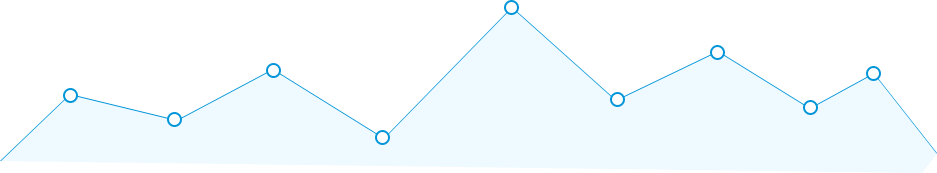
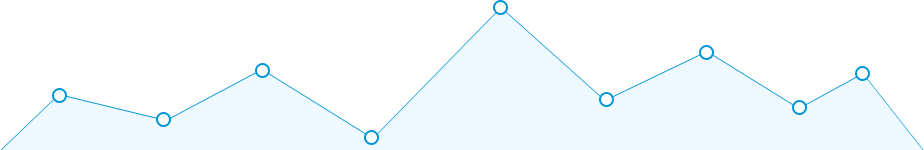
Base styles

diff --git a/app/index.html b/app/index.html
@@ -18,83 +18,95 @@
       <p class="browserupgrade">You are using an <strong>outdated</strong> browser. Please <a href="http://browsehappy.com/">upgrade your browser</a> to improve your experience.</p>
       <![endif]-->
 
-  <div class="container">
-    <div class="row">
-      <div class="nine columns"><img class="logo" src="images/logo.png" alt="Trimpass"></div>
-      <div class="three columns"><a href="#" class="button button-primary">Log In</a></div>
-    </div>
-  </div>
-
-  <div class="container tac">
-    <div class="row">
-      <div class="twelve columns"><h1>Fitness Freedom</h1></div>
-    </div>
-    <div class="row">
-      <div class="twelve columns"><strong>Unlimited access to fitness classes and gyms throughout your city for one low price.</strong></div>
-    </div>
-    <div class="row">
-      <div class="twelve columns"><div class="header-details">$69/month when you sign up annally. Regularly $89/month</div></div>
-    </div>
-    <div class="row">
-      <div class="twelve columns"><a href="#" class="button button-primary">Get Started Today</a></div>
-    </div>
-  </div>
-
-  <div class="container section">
-    <div class="row">
-      <div class="five columns">
-        <div class="section-text">
-          <h2>One Pass, Unlimited Access</h2>
-          <p>TrimPass's one pass is your personal ticket to the best fitness classes in your city. You can reserve classes via our website or app for only one low price a month.</p>
-        </div>
-      </div>
-      <div class="seven columns"><div class="img-unlimited"><img src="images/unlimited.png" alt="" height="469"></div></div>
-    </div>
-  </div>
-
-  <div class="container section img-graph">
-    <div class="row">
-      <div class="seven columns"><div class="img-schedule"><img src="images/schedule.png" alt=""></div></div>
-      <div class="five columns">
-        <div class="section-text">
-          <h2>Top classes in your city</h2>
-          <p>TrimPass's one pass is your personal ticket to the best fitness classes in your city. You can reserve classes via our website or app for only one low price a month.</p>
-        </div>
+  <div class="section-nav">
+    <div class="container">
+      <div class="row">
+        <div class="nine columns"><img class="logo" src="images/logo.png" alt="Trimpass"></div>
+        <div class="three columns"><a href="#" class="button button-primary">Log In</a></div>
       </div>
     </div>
   </div>
 
-  <div class="container section">
-    <div class="row">
-      <div class="five columns">
-        <div class="section-text">
-          <h2>No Commitment?<br> Cancel anytime</h2>
-          <p>TrimPass's one pass is your personal ticket to the best fitness classes in your city. You can reserve classes via our website or app for only one low price a month.</p>
+  <div class="section-header">
+    <div class="container tac">
+      <div class="row">
+        <div class="twelve columns"><h1>Fitness Freedom</h1></div>
+      </div>
+      <div class="row">
+        <div class="twelve columns"><strong>Unlimited access to fitness classes and gyms throughout your city for one low price.</strong></div>
+      </div>
+      <div class="row">
+        <div class="twelve columns"><div class="header-details">$69/month when you sign up annally. Regularly $89/month</div></div>
+      </div>
+      <div class="row">
+        <div class="twelve columns"><a href="#" class="button button-primary">Get Started Today</a></div>
+      </div>
+    </div>
+  </div>
+
+  <div class="section section-unlimited">
+    <div class="container">
+      <div class="row">
+        <div class="five columns">
+          <div class="section-text">
+            <h2>One Pass, Unlimited Access</h2>
+            <p>TrimPass's one pass is your personal ticket to the best fitness classes in your city. You can reserve classes via our website or app for only one low price a month.</p>
+          </div>
+        </div>
+        <div class="seven columns"><div class="img-unlimited"><img src="images/unlimited.png" alt="" height="469"></div></div>
+      </div>
+    </div>
+  </div>
+
+  <div class="section section-schedule">
+    <div class="container img-graph">
+      <div class="row">
+        <div class="seven columns"><div class="img-schedule"><img src="images/schedule.png" alt=""></div></div>
+        <div class="five columns">
+          <div class="section-text">
+            <h2>Top classes in your city</h2>
+            <p>TrimPass's one pass is your personal ticket to the best fitness classes in your city. You can reserve classes via our website or app for only one low price a month.</p>
+          </div>
         </div>
       </div>
-      <div class="seven columns"><div class="img-nocommit"><img src="images/nocommit.png" alt=""></div></div>
     </div>
   </div>
 
-  <div class="container">
-    <div class="row">
-      <div class="twelve columns"><h2>Fitness Classes and Gyms Near You</h2></div>
-    </div>
-    <div class="row">
-      <div class="twelve columns">MAP HERE</div>
-    </div>
-  </div>
-
-  <div class="container">
-    <div class="row">
-      <div class="twelve columns"></div>
-    </div>
-    <div class="row">
-      <div class="twelve columns">&copy; Copyright 2015 Trimpass. All rights reserved</div>
+  <div class="section section-commitment">
+    <div class="container">
+      <div class="row">
+        <div class="five columns">
+          <div class="section-text">
+            <h2>No Commitment?<br> Cancel anytime</h2>
+            <p>TrimPass's one pass is your personal ticket to the best fitness classes in your city. You can reserve classes via our website or app for only one low price a month.</p>
+          </div>
+        </div>
+        <div class="seven columns"><div class="img-nocommit"><img src="images/nocommit.png" alt=""></div></div>
+      </div>
     </div>
   </div>
 
+  <div class="section-map">
+    <div class="container">
+      <div class="row">
+        <div class="twelve columns tac"><h2>Fitness Classes and Gyms Near You</h2></div>
+      </div>
+      <div class="row">
+        <div class="twelve columns tac"><iframe class="map" src="https://www.google.com/maps/embed?pb=!1m18!1m12!1m3!1d46695.69903169!2d-81.2475041510498!3d42.989201301672324!2m3!1f0!2f0!3f0!3m2!1i1024!2i768!4f13.1!3m3!1m2!1s0x882ef20ea88d9b0b%3A0x28c7d7699a056b95!2sLondon%2C+ON!5e0!3m2!1sen!2sca!4v1427434456312" frameborder="0" style="border:0"></iframe></div>
+      </div>
+    </div>
+  </div>
 
+  <div class="section-footer">
+    <div class="container">
+      <div class="row">
+        <div class="twelve columns"></div>
+      </div>
+      <div class="row">
+        <div class="twelve columns">&copy; Copyright 2015 Trimpass. All rights reserved</div>
+      </div>
+    </div>
+  </div>
 
 
 

diff --git a/app/styles/styles.css b/app/styles/styles.css
@@ -152,8 +152,8 @@ a:hover {
 
 .button.button-primary, button.button-primary, input[type="submit"].button-primary, input[type="reset"].button-primary, input[type="button"].button-primary {
   color: #FFF;
-  background-color: #33C3F0;
-  border-color: #33C3F0; }
+  background-color: #0094D8;
+  border-color: #0094D8; }
 
 .button.button-primary:hover, button.button-primary:hover, input[type="submit"].button-primary:hover, input[type="reset"].button-primary:hover, input[type="button"].button-primary:hover, .button.button-primary:focus, button.button-primary:focus, input[type="submit"].button-primary:focus, input[type="reset"].button-primary:focus, input[type="button"].button-primary:focus {
   color: #FFF;
@@ -186,7 +186,7 @@ textarea {
   padding-bottom: 6px; }
 
 input[type="email"]:focus, input[type="number"]:focus, input[type="search"]:focus, input[type="text"]:focus, input[type="tel"]:focus, input[type="url"]:focus, input[type="password"]:focus, textarea:focus, select:focus {
-  border: 1px solid #33C3F0;
+  border: 1px solid #0094D8;
   outline: 0; }
 
 label, legend {
@@ -839,3 +839,70 @@ textarea {
     widows: 3; }
   h2, h3 {
     page-break-after: avoid; } }
+
+h1, h2, h3 {
+  font-weight: normal; }
+
+h1 {
+  font-size: 80px;
+  margin: 1.6em 0px 0px;
+  line-height: 1; }
+
+h2 {
+  font-size: 26px; }
+
+img {
+  max-width: 100%;
+  height: auto; }
+
+.section-nav, .section-footer {
+  padding: 3em 0; }
+
+.section-header {
+  padding: 0 0 3em; }
+
+.section {
+  border-bottom: 1px solid #eee;
+  background: white;
+  z-index: 1; }
+
+.section-text {
+  margin: 12em 0; }
+
+.section-map {
+  padding: 4em 0; }
+  .section-map h2 {
+    margin-bottom: 2em; }
+
+.section-header {
+  background: url('../images/bg-header.png') center center no-repeat; }
+
+.section-footer {
+  background: #f5f5f5;
+  color: #aaa;
+  font-size: 12px; }
+
+.img-graph {
+  background: url('../images/bg-graph.png') center bottom no-repeat; }
+
+.img-unlimited, .img-nocommit {
+  position: absolute;
+  bottom: 0; }
+
+.img-schedule {
+  margin: 8em 0 0 8em; }
+
+.img-nocommit {
+  margin: 7em 0 0 4em; }
+
+.header-details {
+  border-top: 1px solid #eee;
+  display: block;
+  max-width: 800px;
+  width: 100%;
+  margin: .5em auto 0;
+  padding: .5em 0 3em; }
+
+.map {
+  width: 100%;
+  height: 600px; }

diff --git a/app/styles/scss/layout/_main.sass b/app/styles/scss/layout/_main.sass
@@ -1,0 +1,68 @@
+h1, h2, h3
+  font-weight: normal
+
+h1
+  font-size: 80px
+  margin: 1.6em 0px 0px
+  line-height: 1
+
+h2
+  font-size: 26px
+
+img
+  max-width: 100%
+  height: auto
+
+.section-nav,
+.section-footer
+  padding: 3em 0
+
+.section-header
+  padding: 0 0 3em
+
+.section
+  border-bottom: 1px solid #eee
+  background: white
+  z-index: 1
+
+.section-text
+  margin: 12em 0
+
+.section-map
+  padding: 4em 0
+  h2
+    margin-bottom: 2em
+
+.section-header
+  background: url('../images/bg-header.png') center center no-repeat
+
+.section-footer
+  background: #f5f5f5
+  color: #aaa
+  font-size: 12px
+
+.img-graph
+  background: url('../images/bg-graph.png') center bottom no-repeat
+
+.img-unlimited,
+.img-nocommit
+  position: absolute
+  bottom: 0
+
+.img-schedule
+  margin: 8em 0 0 8em
+
+.img-nocommit
+  margin: 7em 0 0 4em
+
+.header-details
+  border-top: 1px solid #eee
+  display: block
+  max-width: 800px
+  width: 100%
+  margin: .5em auto 0
+  padding: .5em 0 3em
+
+.map
+  width: 100%
+  height: 600px

diff --git a/app/styles/scss/general/_skeleton.scss b/app/styles/scss/general/_skeleton.scss
@@ -163,8 +163,8 @@ input[type="submit"].button-primary,
 input[type="reset"].button-primary,
 input[type="button"].button-primary {
   color: #FFF;
-  background-color: #33C3F0;
-  border-color: #33C3F0; }
+  background-color: #0094D8;
+  border-color: #0094D8; }
 .button.button-primary:hover,
 button.button-primary:hover,
 input[type="submit"].button-primary:hover,
@@ -223,7 +223,7 @@ input[type="url"]:focus,
 input[type="password"]:focus,
 textarea:focus,
 select:focus {
-  border: 1px solid #33C3F0;
+  border: 1px solid #0094D8;
   outline: 0; }
 label,
 legend {
